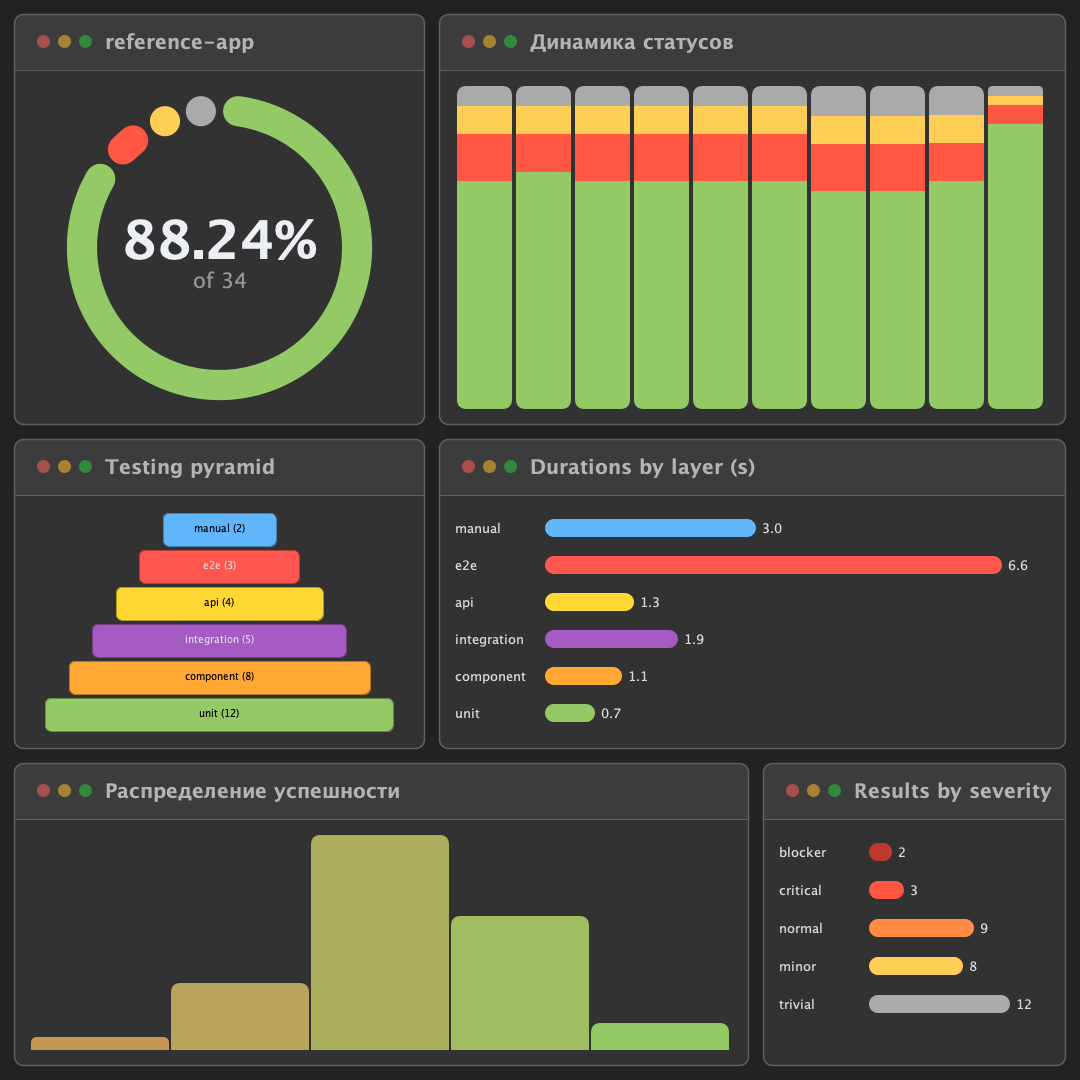
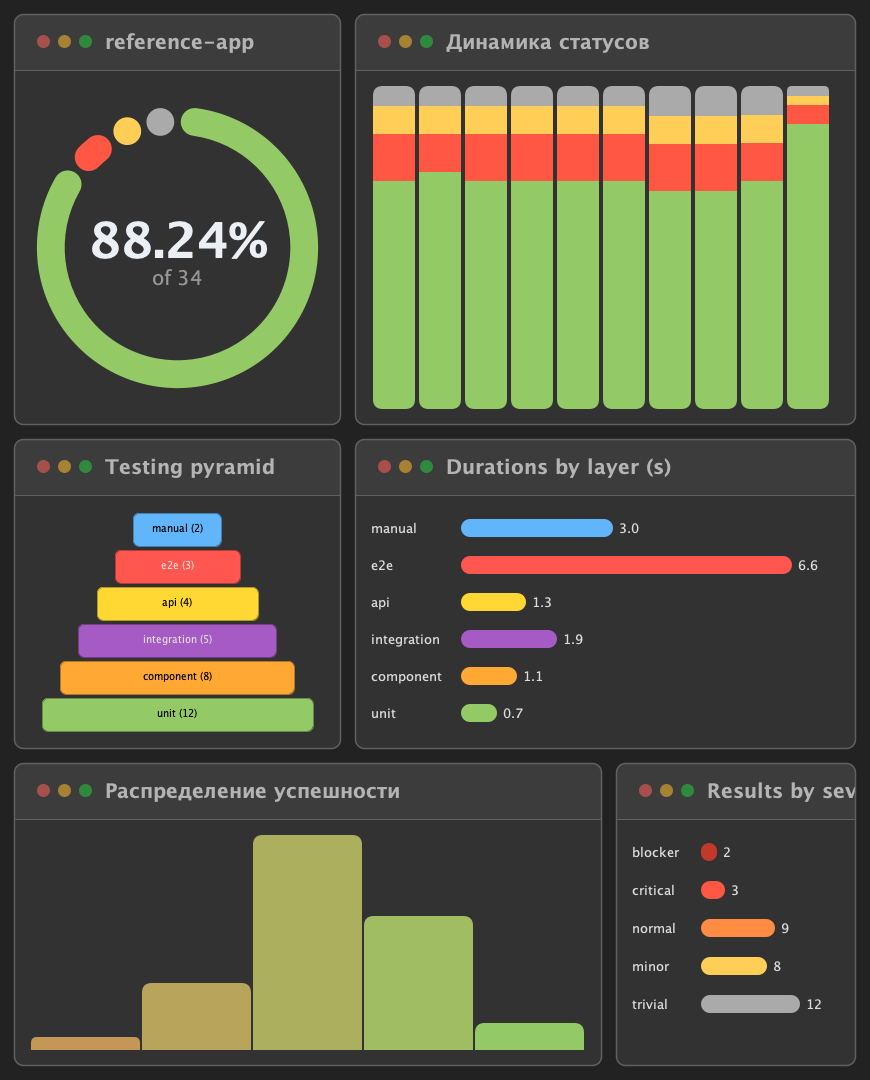
feat(config): Telegram collage defaults to cb870 with per-profile layouts
Document 870×1080 as the Telegram canvas; ship dogfood PNGs for
mid-dynamics / dense-split / compact-hero / pyramid-mid / dense-live.

diff --git a/docs/ci-cookbook-5.0.md b/docs/ci-cookbook-5.0.md
@@ -13,7 +13,7 @@ See [config/config-5.0-collage.example.json](../config/config-5.0-collage.exampl
   "base": {
     "project": "${JOB_BASE_NAME}",
     "environment": "${STAND}",
-    "comment": "sq1080-mid-dynamics",
+    "comment": "cb870-mid-dynamics · pie 4×4 · large statusDynamics · pyramid|durations · success + severities",
     "language": "en",
     "allureFolder": "build/allure-report/",
     "allureResultsFolder": "build/allure-results/",
@@ -23,7 +23,7 @@ See [config/config-5.0-collage.example.json](../config/config-5.0-collage.exampl
     "chart": {
       "mode": "collage",
       "layout": "free",
-      "width": 1080,
+      "width": 870,
       "height": 1080,
       "headerHeight": 56,
       "cardGap": 14,
@@ -31,12 +31,49 @@ See [config/config-5.0-collage.example.json](../config/config-5.0-collage.exampl
       "gridCols": 10,
       "gridRows": 10,
       "items": [
-        { "type": "pie", "x": 0, "y": 0, "w": 4, "h": 4 },
-        { "type": "statusDynamics", "x": 4, "y": 0, "w": 6, "h": 4 },
-        { "type": "testingPyramid", "x": 0, "y": 4, "w": 4, "h": 3 },
-        { "type": "durations", "x": 4, "y": 4, "w": 6, "h": 3, "groupBy": "layer" },
-        { "type": "successRateDistribution", "x": 0, "y": 7, "w": 7, "h": 3 },
-        { "type": "testResultSeverities", "x": 7, "y": 7, "w": 3, "h": 3 }
+        {
+          "type": "pie",
+          "x": 0,
+          "y": 0,
+          "w": 4,
+          "h": 4
+        },
+        {
+          "type": "statusDynamics",
+          "x": 4,
+          "y": 0,
+          "w": 6,
+          "h": 4
+        },
+        {
+          "type": "testingPyramid",
+          "x": 0,
+          "y": 4,
+          "w": 4,
+          "h": 3
+        },
+        {
+          "type": "durations",
+          "x": 4,
+          "y": 4,
+          "w": 6,
+          "h": 3,
+          "groupBy": "layer"
+        },
+        {
+          "type": "successRateDistribution",
+          "x": 0,
+          "y": 7,
+          "w": 7,
+          "h": 3
+        },
+        {
+          "type": "testResultSeverities",
+          "x": 7,
+          "y": 7,
+          "w": 3,
+          "h": 3
+        }
       ],
       "pyramidFallback": "suites"
     },

diff --git a/README.ru.md b/README.ru.md
@@ -63,14 +63,14 @@ flowchart LR
 
 <img width="660" alt="Telegram notification example" src="docs/telegram_notification.png">
 
-В режиме **collage** Telegram-default — `sq1080-mid-dynamics` (1080×1080 free): pie · dynamics · pyramid|durations · success · severities. См. [гайд по миграции](docs/migration-5.0.md) и [пример](config/config-5.0-collage.example.json).
+В режиме **collage** Telegram — узкий canvas **870×1080**; default `cb870-mid-dynamics`, у проектов разные раскладки под динамику (wide dynamics / pie hero / pyramid-mid / dense-live). См. [гайд по миграции](docs/migration-5.0.md) и [пример](config/config-5.0-collage.example.json).
 
 
 ## Что нового в 5.0
 
 | Возможность | Описание |
 |-------------|----------|
-| **Collage chart** | `chart.mode: "collage"` + `layout: "free"` — Telegram default `sq1080-mid-dynamics` (pie · dynamics · pyramid\|durations · success · severities) |
+| **Collage chart** | `chart.mode: "collage"` + `layout: "free"` — Telegram canvas **870×1080**; раскладка по consumer (`cb870-mid-dynamics` default · dense-split / compact-hero / pyramid-mid / dense-live) |
 | **Блок links** | `links.report`, `dashboard`, `testops`, `build` в шаблонах (i18n) |
 | **Allure 3** | Автоопределение `summary.json` в корне отчёта (`stats` → legacy-модель) |
 | **Аналитика results** | `allureResultsFolder` для layer labels, suites, длительностей |

diff --git a/README.md b/README.md
@@ -97,7 +97,7 @@ In **5.0 collage** mode the chart is a single 1000×600 PNG: status pie (top-lef
 
 | Feature | Description |
 |---------|-------------|
-| **Collage chart** | `chart.mode: "collage"` + `layout: "free"` — Telegram default `sq1080-mid-dynamics` (pie · dynamics · pyramid\|durations · success · severities) |
+| **Collage chart** | `chart.mode: "collage"` + `layout: "free"` — Telegram canvas **870×1080**; layout per consumer (`cb870-mid-dynamics` default · dense-split / compact-hero / pyramid-mid / dense-live) |
 | **Links block** | `links.report`, `dashboard`, `testops`, `build` in templates (i18n) |
 | **Allure 3** | Auto-detect `summary.json` at report root (`stats` → legacy model) |
 | **Results analytics** | `allureResultsFolder` for layer labels, suites, per-test durations |
